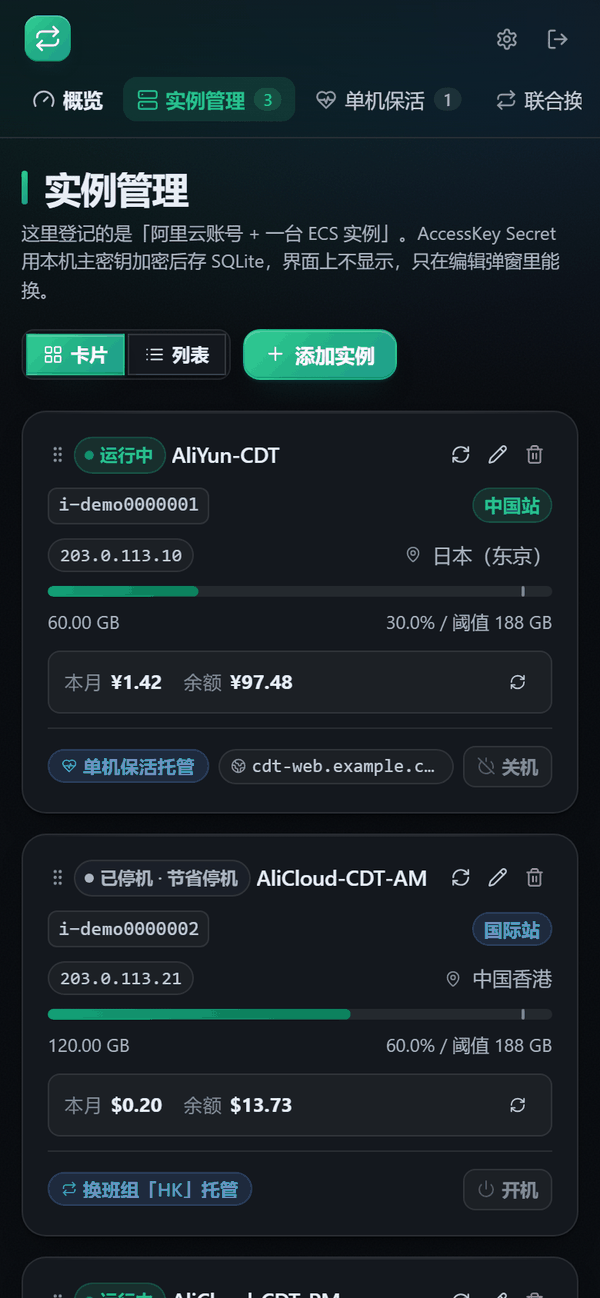
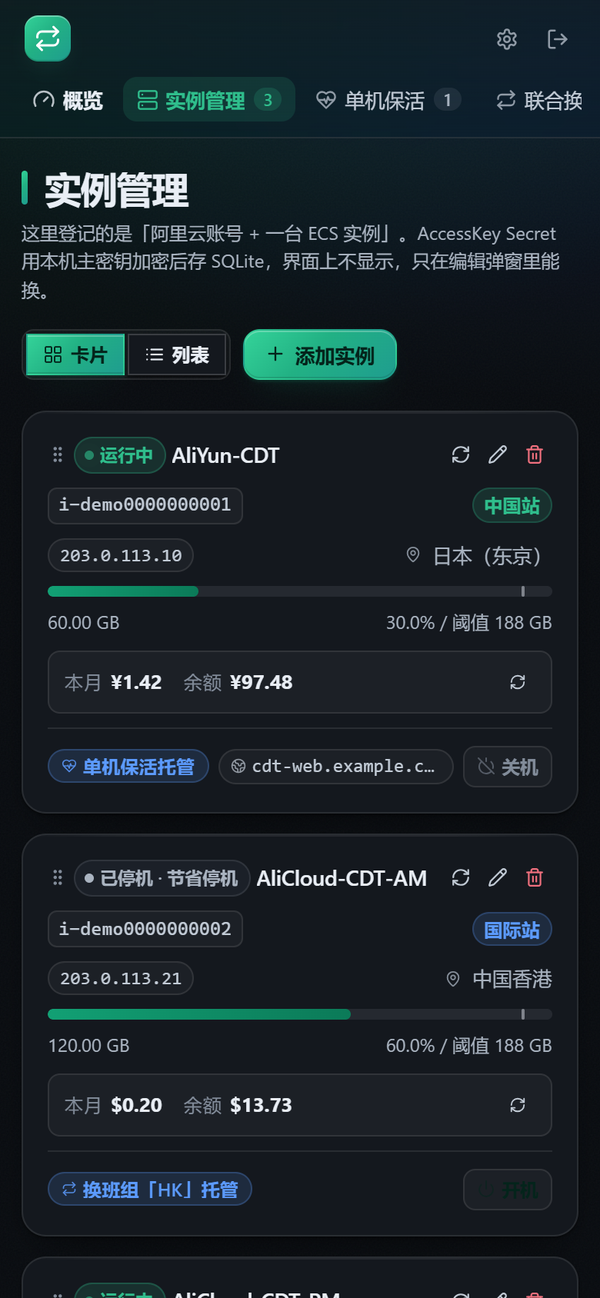
docs(readme): 通知截图合并为一张总图，重拍手机端实例管理截图
- 9 张通知截图拼成 3x3 总图（25-notify-overview.png），README 通知章节
  由 3 组共 9 个 img 换成 1 张，与上方图组同宽
- 重拍 06/07 手机端实例管理截图：配色统一、实例参数与 04/05 保持一致

diff --git a/README.md b/README.md
@@ -104,24 +104,10 @@
 **说明**：支持 Telegram、邮件、Webhook 三类渠道，可同时开启。
 
 <details>
-<summary>9 种通知的实际推送效果（点击展开）</summary>
+<summary>9 种通知的实际推送效果（点击查看大图）</summary>
 
 <p align="center">
-  <a href="docs/screenshots/16-notify-shift.png"><img src="docs/screenshots/16-notify-shift.png" width="31%" align="top" alt="CDT 换班完成报告（换班组）"></a>
-  <a href="docs/screenshots/17-notify-failover.png"><img src="docs/screenshots/17-notify-failover.png" width="31%" align="top" alt="CDT 故障转移报告（换班组）"></a>
-  <a href="docs/screenshots/18-notify-breaker.png"><img src="docs/screenshots/18-notify-breaker.png" width="31%" align="top" alt="CDT 全局熔断报告（换班组）"></a>
-</p>
-
-<p align="center">
-  <a href="docs/screenshots/19-notify-limitstop.png"><img src="docs/screenshots/19-notify-limitstop.png" width="31%" align="top" alt="CDT 全局熔断报告（换班组·单台）"></a>
-  <a href="docs/screenshots/20-notify-over-keepalive.png"><img src="docs/screenshots/20-notify-over-keepalive.png" width="31%" align="top" alt="CDT 超限停机报告（单机保活）"></a>
-  <a href="docs/screenshots/21-notify-over-idle.png"><img src="docs/screenshots/21-notify-over-idle.png" width="31%" align="top" alt="CDT 超限停机报告（闲散手动）"></a>
-</p>
-
-<p align="center">
-  <a href="docs/screenshots/22-notify-recovery.png"><img src="docs/screenshots/22-notify-recovery.png" width="31%" align="top" alt="CDT 抢占恢复报告"></a>
-  <a href="docs/screenshots/23-notify-error.png"><img src="docs/screenshots/23-notify-error.png" width="31%" align="top" alt="CDT 换班异常报告（换班组）"></a>
-  <a href="docs/screenshots/24-notify-daily.png"><img src="docs/screenshots/24-notify-daily.png" width="31%" align="top" alt="CDT 每日报告"></a>
+  <a href="docs/screenshots/25-notify-overview.png"><img src="docs/screenshots/25-notify-overview.png" width="96%" alt="9 种通知推送效果：换班完成、故障转移、全局熔断、超限停机（换班组 / 单机保活 / 闲散）、抢占恢复、换班异常、每日报告"></a>
 </p>
 
 </details>
